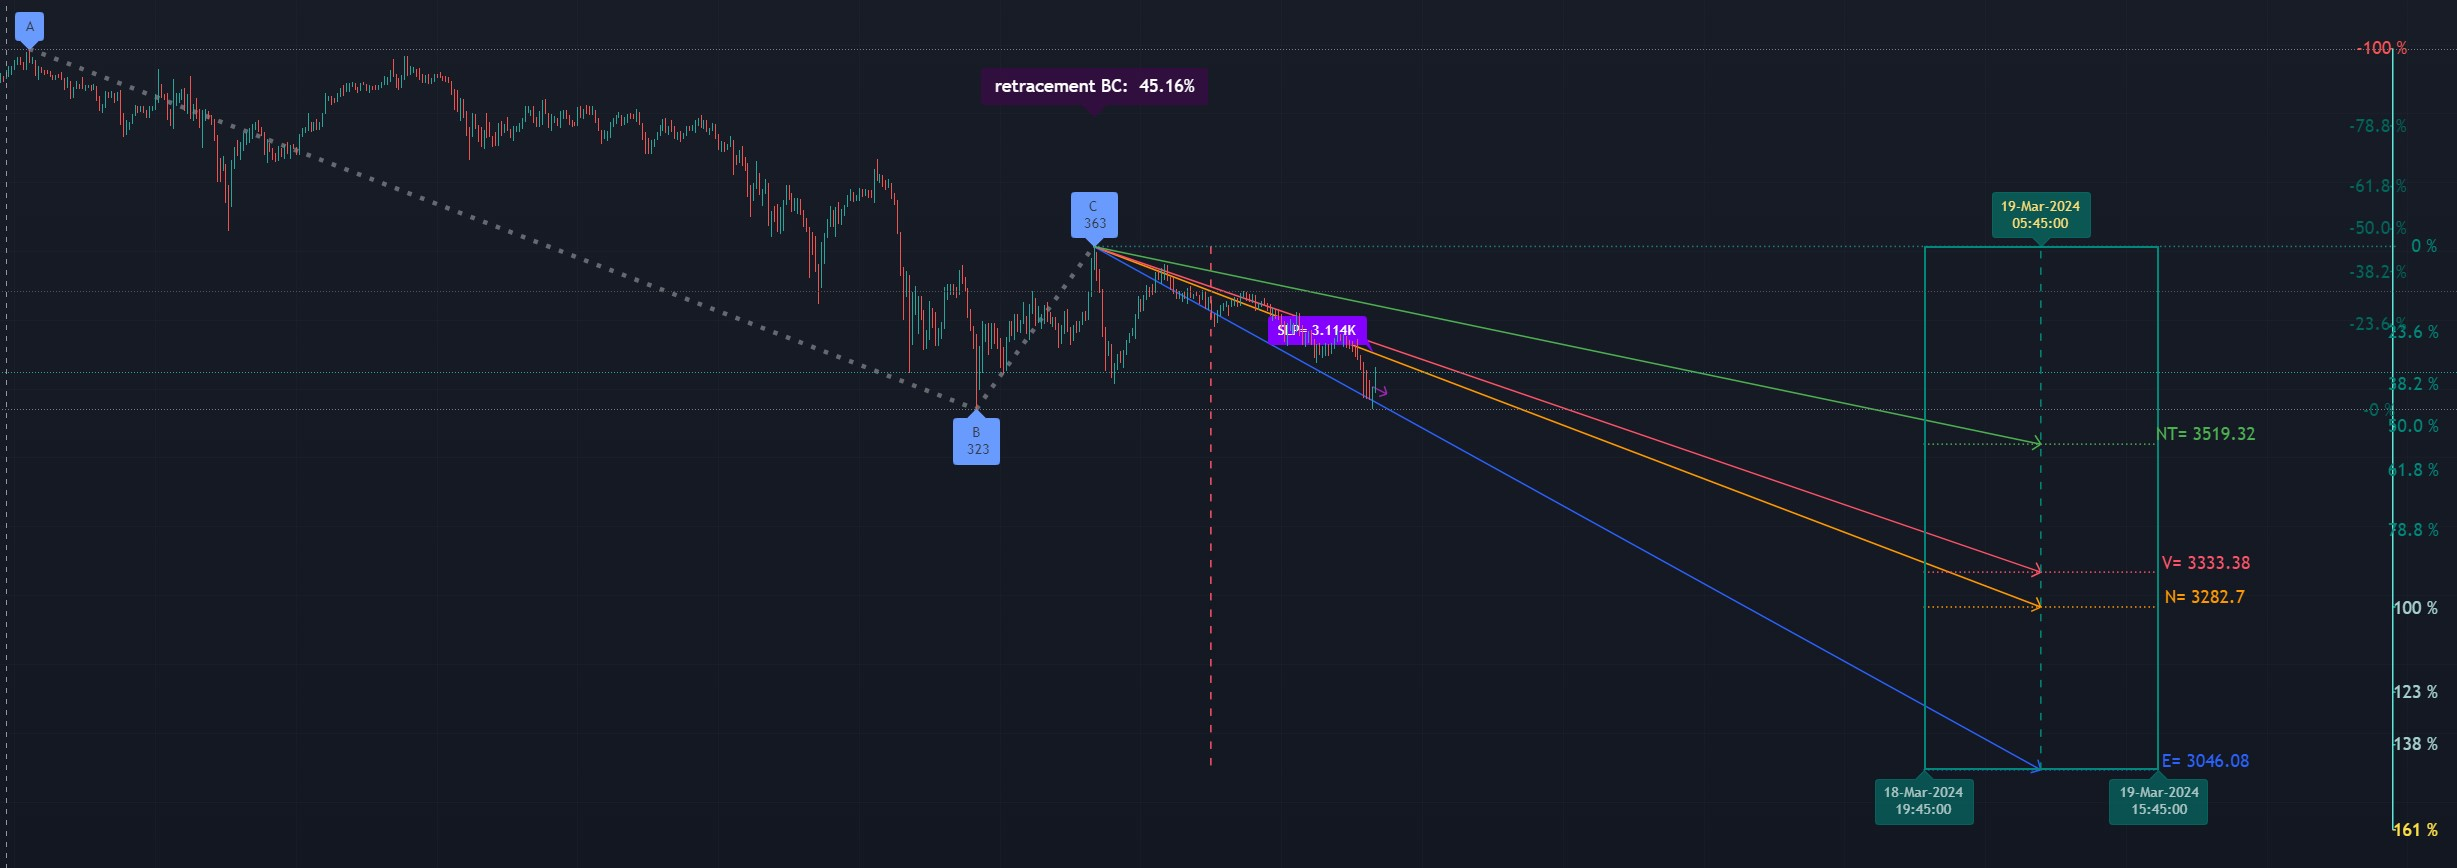
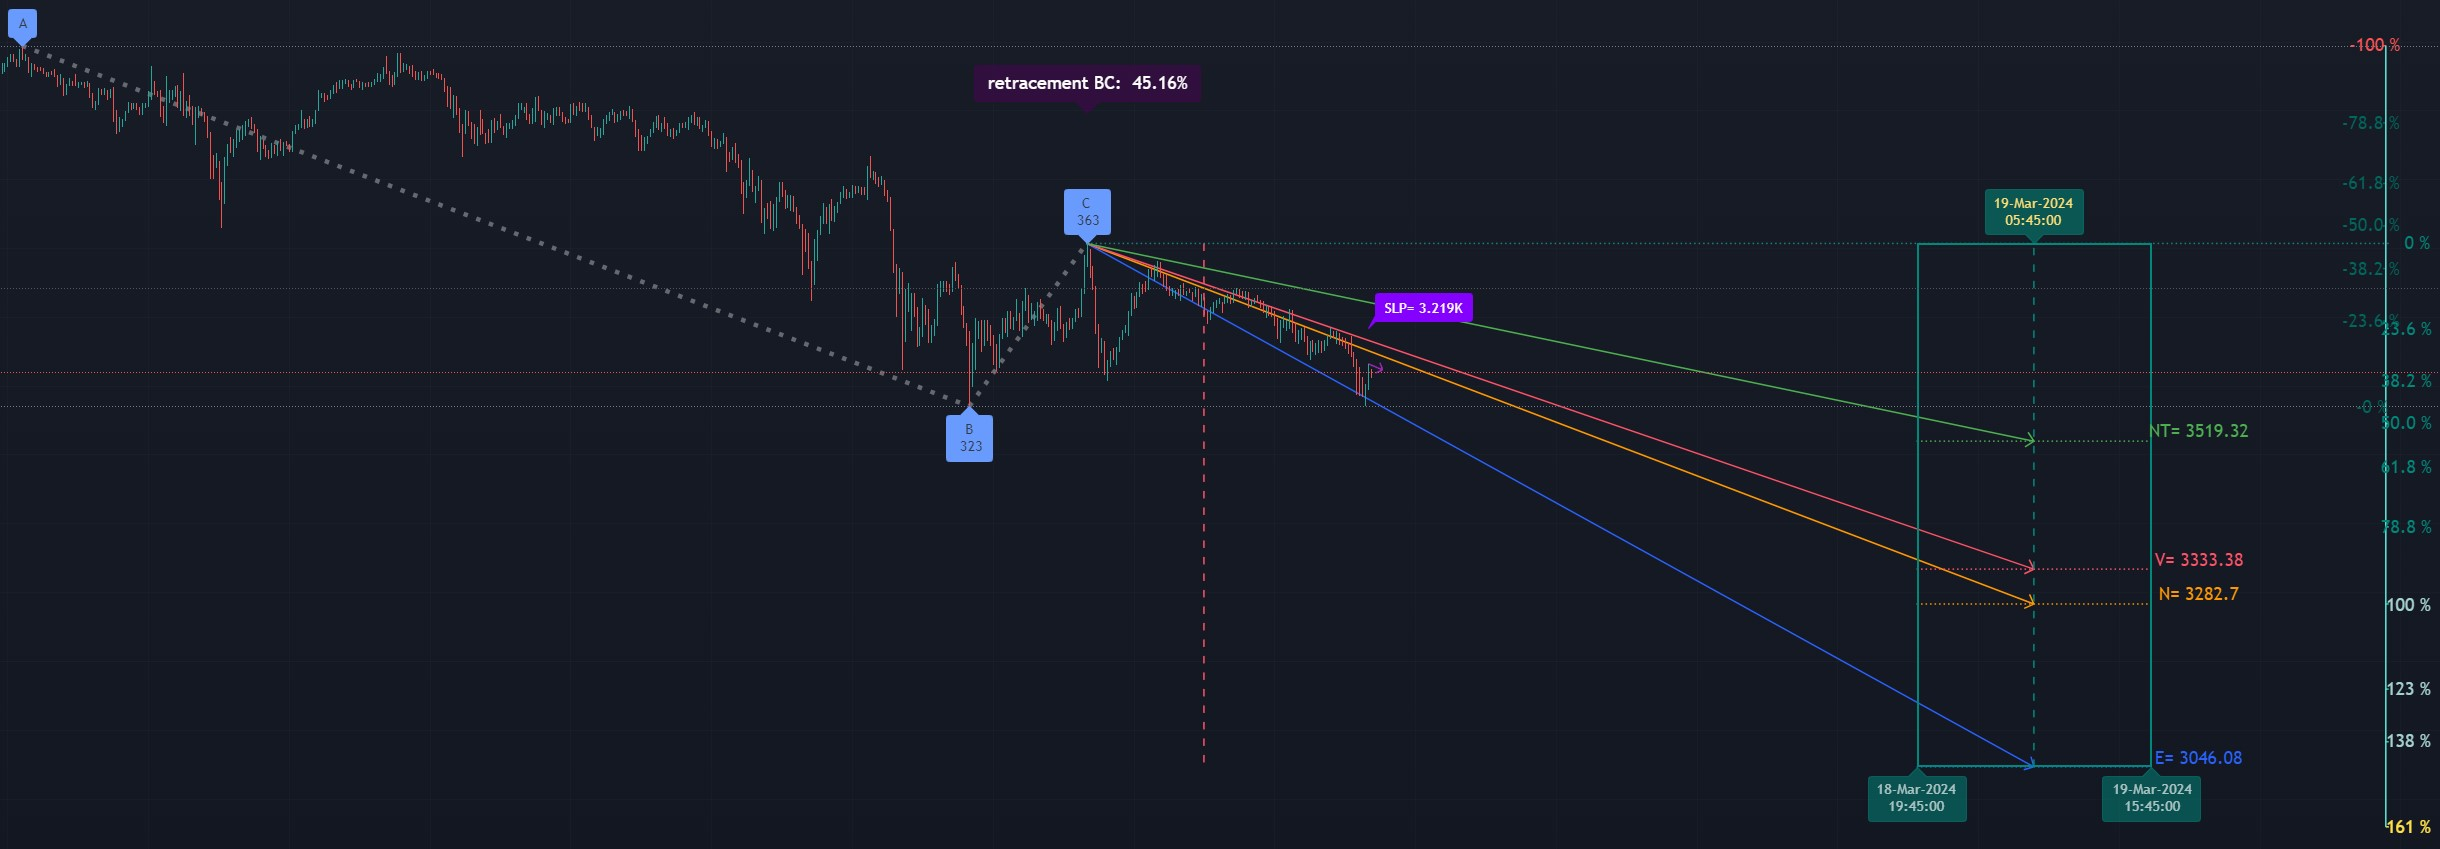
ver(0.9.0 -> 0.9.1)

diff --git a/README.md b/README.md
@@ -70,6 +70,8 @@ Above that, arrows **N, V, E and NT** can still show potential targets.
 
 When the market is strongly bullish or bearish, it's not unusual to watch the price go crazy above or below the window. In such case, the chart may follow a strength arrow that is a multiple of **E** or **N**. That's why this script has an option to display those multiples. 
 
+The **SLP** stands for **Stupid Linear Prediction**. It's really just the direction the chart is heading into from the C point to now (now being the last confirmed bar). It has no real value but in your dreams. The calculated value shown in the purple label is the market price this chart would end up at if continuing in that direction, at the **Target Time**.
+
 
 ## F.A.Q.
 
